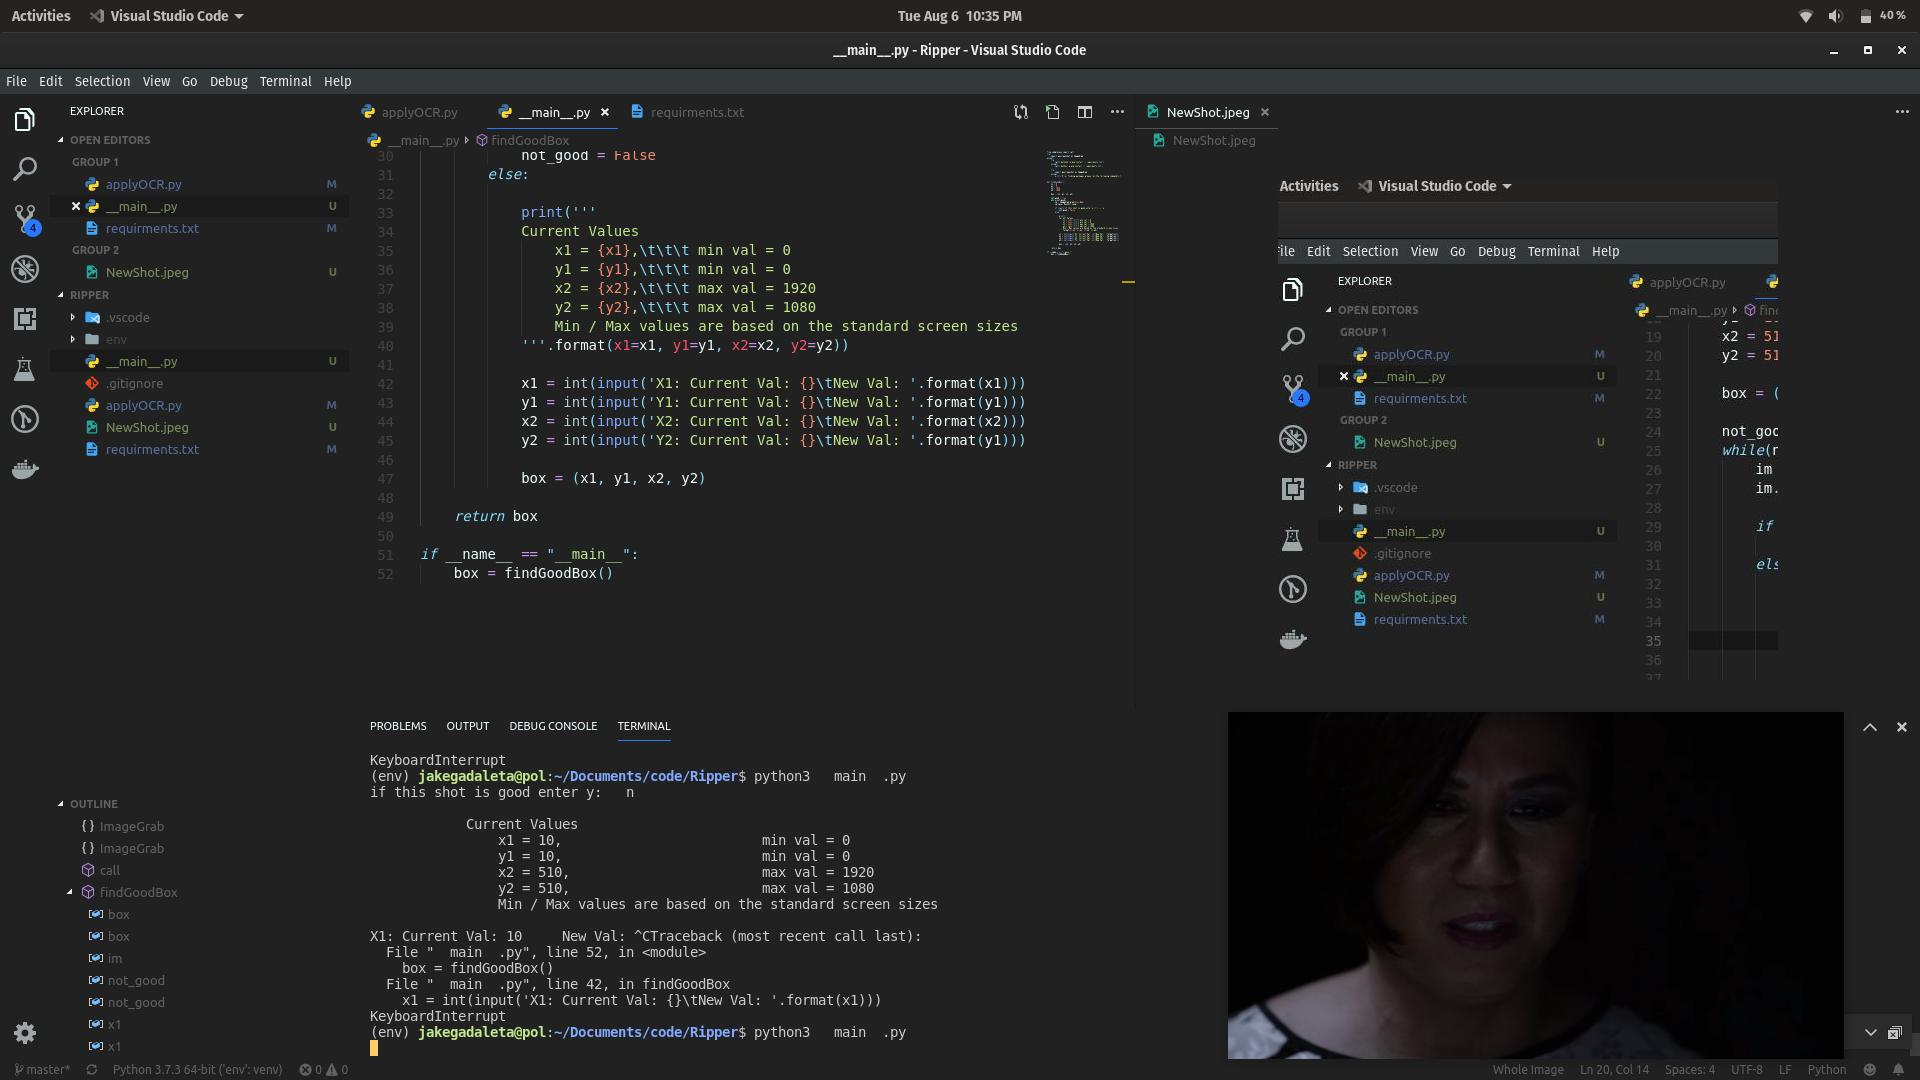
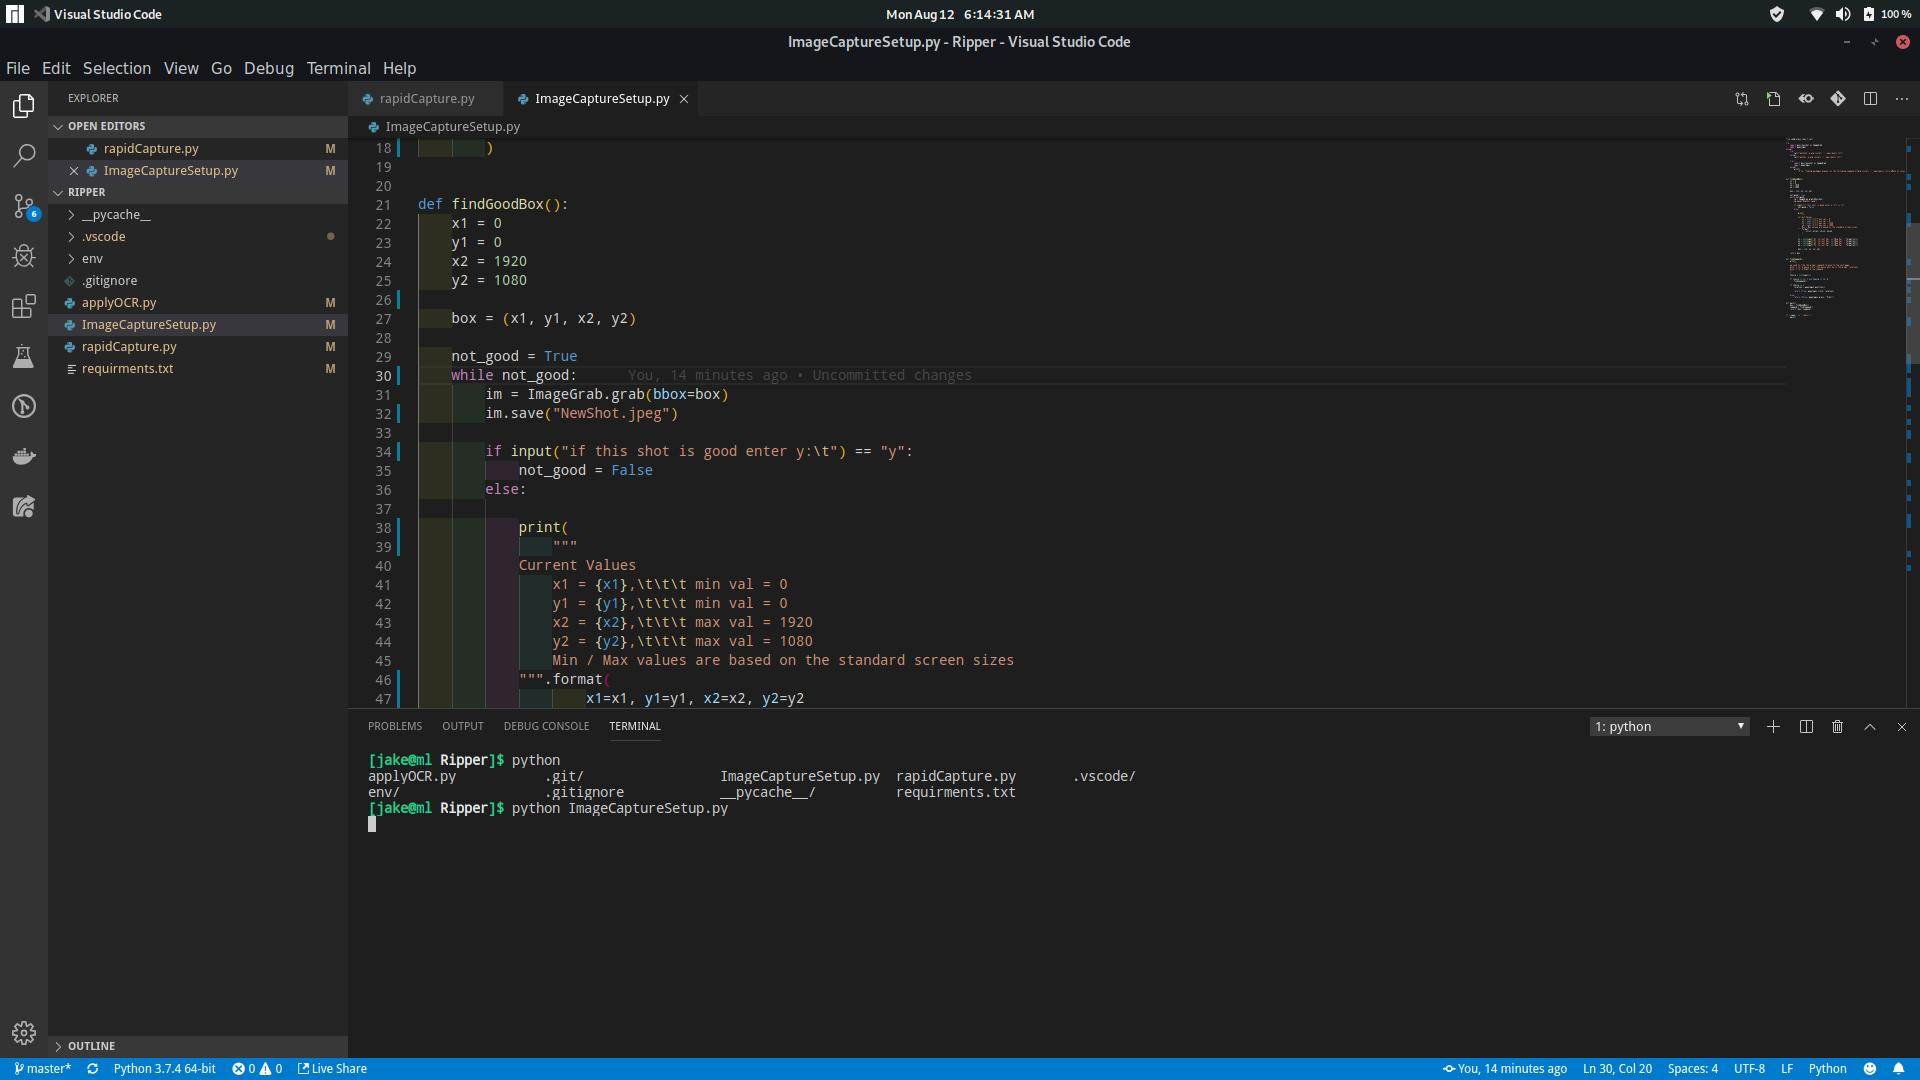
Worked on the image capturing loop

diff --git a/rapidCapture.py b/rapidCapture.py
@@ -1,59 +1,109 @@
 import ImageCaptureSetup
 import applyOCR
-
+import os
+import time
+from random import randint
 from subprocess import call
+
+
 try:
     import pyscreenshot as ImageGrab
     import pyautogui
+    import cv2
+    import numpy as np
+    import img2pdf
 except:
     try:
-        call('python3 -m pip install -r requirments.txt')
+        call("python3 -m pip install -r requirments.txt --user")
     except:
-        call('python -m pip install -r requirments.txt')
+        call("python -m pip install -r requirments.txt --user")
 
     try:
         import pyscreenshot as ImageGrab
         import pyautogui
+        import cv2
+        import numpy as np
     except:
-        print('Error finding packages please run the following command\n\tpip install -r requirments.txt\n\nNote on Linux system PIL must be downloaded through a package manager')
+        print(
+            "Error finding packages please run the following command\n\tpip install -r requirments.txt\n\nNote on Linux system PIL must be downloaded through a package manager"
+        )
 
 
-def build():
+def build(name, wait):
     box = ImageCaptureSetup.findGoodBox()
-    tup = ImageCaptureSetup.findCommand() 
-	
-    try:    
-        call('cd temp')
-        call('rm *')
-        call('cd ..')
-        call('rmdir temp')
+    tup = ImageCaptureSetup.findCommand()
+
+    try:
+        call("cd temp")
+        call("rm *")
+        call("cd ..")
+        call("rmdir temp")
     except:
         None
-    
-    call('mkdir temp')
-    call('cd temp')
+
+    call("mkdir temp")
+    call("cd temp")
     counter = 0
-	
-    while(doubleCheck()):
+
+    while doubleCheck(counter):
+        time.sleep(randint(0,wait))
         capture(box, counter)
         counter += 1
-        if tup[0]: tup[1](tup[2][0], tup[2][1])
-       else: tup[1](tup[2])    
+        if tup[0]:
+            tup[1](tup[2][0], tup[2][1])
+        else:
+            tup[1](tup[2])
 
-	done()
+    generatePDF(name)
 
-def doubleCheck():
-    None
+
+def doubleCheck(counter):
+    try:
+        # Loads both images into RAM
+        new = cv2.imread("{counter}.jpg".format(counter=counter))
+        previous = cv2.imread(
+            "{counter_minus_one}.jpg".format(counter_minus_one=counter - 1)
+        )
+
+        # checks to see if they are the same shape
+        if new.shape == previous.shape:
+            print("The images have same size and channels")
+            # calculates all of the color differences
+            difference = cv2.subtract(new, previous)
+
+            # splits all of the differnces into rgb values
+            b, g, r = cv2.split(difference)
+
+            # compares the RGB valuse, if they are the same then the image is the same and it exits the loop
+            if (
+                cv2.countNonZero(b) == 0
+                and cv2.countNonZero(g) == 0
+                and cv2.countNonZero(r) == 0
+            ):
+                return False
+            else:
+                return True
+        else:
+            return True
+
+    except:
+        return True
 
 
 def capture(box, counter):
     im = ImageGrab.grab(bbox=box)
-	im.save('temp/Page{num}.jpeg'.format(num=counter))
-	
-def done():
-	#bound the pdf
-	None
+    im.save("Page{num}.jpg".format(num=counter))
 
-def main():
-    None
+
+def generatePDF(name):
+    if '.pdf' not in name:
+        name += '.pdf'
     
+    with open (name, 'wb') as f:
+        f.write(img2pdf.convert([i for i in os.listdir('temp') if i.endswith(".jpg")]))
+
+
+if __name__ == "__main__":
+    name = input('output file name: \t')
+    wait = int(input('time pause between captures (seconds)'))
+    build(name, wait)

diff --git a/ImageCaptureSetup.py b/ImageCaptureSetup.py
@@ -1,18 +1,21 @@
 from subprocess import call
+
 try:
     import pyscreenshot as ImageGrab
     import pyautogui
 except:
     try:
-        call('python3 -m pip install -r requirments.txt')
+        call("python3 -m pip install -r requirments.txt")
     except:
-        call('python -m pip install -r requirments.txt')
+        call("python -m pip install -r requirments.txt")
 
     try:
         import pyscreenshot as ImageGrab
         import pyautogui
     except:
-        print('Error finding packages please run the following command\n\tpip install -r requirments.txt\n\nNote on Linux system PIL must be downloaded through a package manager')
+        print(
+            "Error finding packages please run the following command\n\tpip install -r requirments.txt\n\nNote on Linux system PIL must be downloaded through a package manager"
+        )
 
 
 def findGoodBox():
@@ -20,58 +23,68 @@ def findGoodBox():
     y1 = 0
     x2 = 1920
     y2 = 1080
-    
+
     box = (x1, y1, x2, y2)
 
     not_good = True
-    while(not_good):
+    while not_good:
         im = ImageGrab.grab(bbox=box)
-        im.save('NewShot.jpeg')
+        im.save("NewShot.jpeg")
 
-        if input('if this shot is good enter y:\t') == 'y':
+        if input("if this shot is good enter y:\t") == "y":
             not_good = False
         else:
 
-            print('''
+            print(
+                """
             Current Values
                 x1 = {x1},\t\t\t min val = 0
                 y1 = {y1},\t\t\t min val = 0
                 x2 = {x2},\t\t\t max val = 1920
                 y2 = {y2},\t\t\t max val = 1080
                 Min / Max values are based on the standard screen sizes
-            '''.format(x1=x1, y1=y1, x2=x2, y2=y2))
+            """.format(
+                    x1=x1, y1=y1, x2=x2, y2=y2
+                )
+            )
 
-            x1 = int(input('X1: Current Val: {}\tNew Val: '.format(x1)))
-            y1 = int(input('Y1: Current Val: {}\tNew Val: '.format(y1)))
-            x2 = int(input('X2: Current Val: {}\tNew Val: '.format(x2)))
-            y2 = int(input('Y2: Current Val: {}\tNew Val: '.format(y1)))
+            x1 = int(input("X1: Current Val: {}\tNew Val: ".format(x1)))
+            y1 = int(input("Y1: Current Val: {}\tNew Val: ".format(y1)))
+            x2 = int(input("X2: Current Val: {}\tNew Val: ".format(x2)))
+            y2 = int(input("Y2: Current Val: {}\tNew Val: ".format(y1)))
 
             box = (x1, y1, x2, y2)
-            
+
     return box
 
+
 def findCommand():
-    print('''
+    print(
+        """
     we need to find the proper command to move to the next page
     Enter 1 for a mouse click <The mouse must be in the proper location>
     Enter 2 for a Right Arrow command
-    ''')
+    """
+    )
     choice = int(input())
 
     if choice is not 1 and choice is not 2:
         findCommand()
-    
+
     if choice is 1:
         location = pyautogui.position()
-        
+
         return (True, pyautogui.click, location)
 
     else:
-        return (False, pyautogui.press, 'Right')
+        return (False, pyautogui.press, "Right")
+
+
 def main():
     box = findGoodBox()
     command = findCommand()
     return (box, command)
+
 
 if __name__ == "__main__":
     main()

diff --git a/applyOCR.py b/applyOCR.py
@@ -1,36 +1,43 @@
 from subprocess import call
 from sys import platform
+
 try:
     try:
         from PIL import Image
     except ImportError:
         import Image
-    
+
     import pytesseract
 except:
     try:
         try:
-            call('python3 -m pip install -r requirments.txt')
+            call("python3 -m pip install -r requirments.txt")
         except:
-            call('python -m pip install -r requirments.txt')
+            call("python -m pip install -r requirments.txt")
     except:
-        print('We have encountered an unexpected error\n\nopen up a terminal window and enter the following cd into the folder and enter the following command\n\tpip install -r requirments.txt')
+        print(
+            "We have encountered an unexpected error\n\nopen up a terminal window and enter the following cd into the folder and enter the following command\n\tpip install -r requirments.txt"
+        )
 
     try:
         from PIL import Image
     except ImportError:
         import Image
-    
+
     import pytesseract
 
-def ocr_core(filename):
-    return pytesseract.image_to_string(Image.open(filename))  # We'll use Pillow's Image class to open the image and pytesseract to detect the string in the image
 
-'''
+def ocr_core(filename):
+    return pytesseract.image_to_string(
+        Image.open(filename)
+    )  # We'll use Pillow's Image class to open the image and pytesseract to detect the string in the image
+
+
+"""
 TODO this a suprise that will help us latter
 
 from pdf2image import convert_from_path
 imgs = convert_from_path('path/to/your/file.pdf', 200)
 
 and imgs is a list of your pdf's pages as PIL image
-'''
+"""
